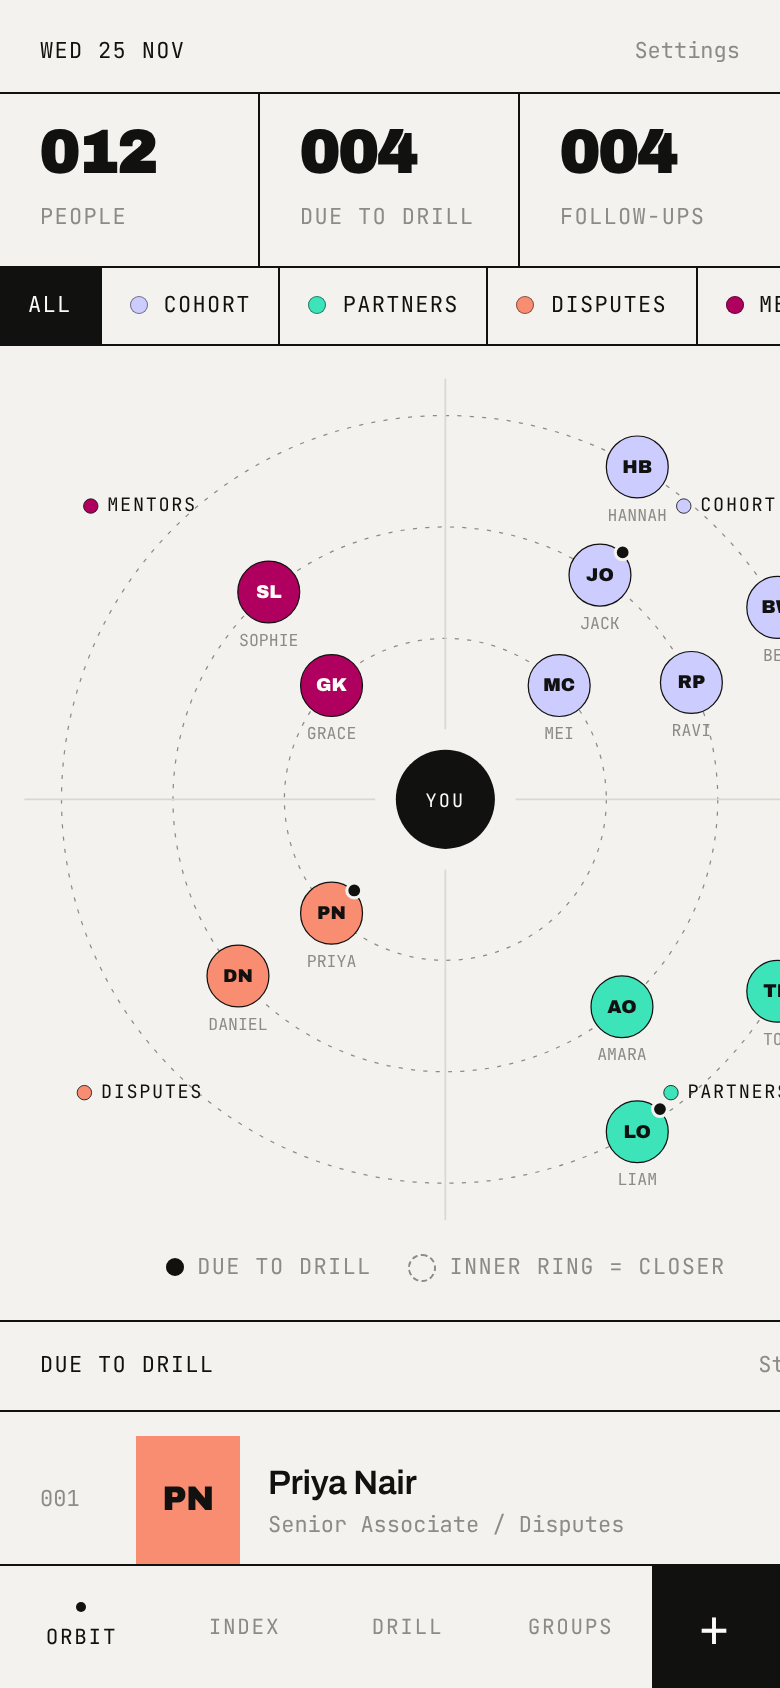
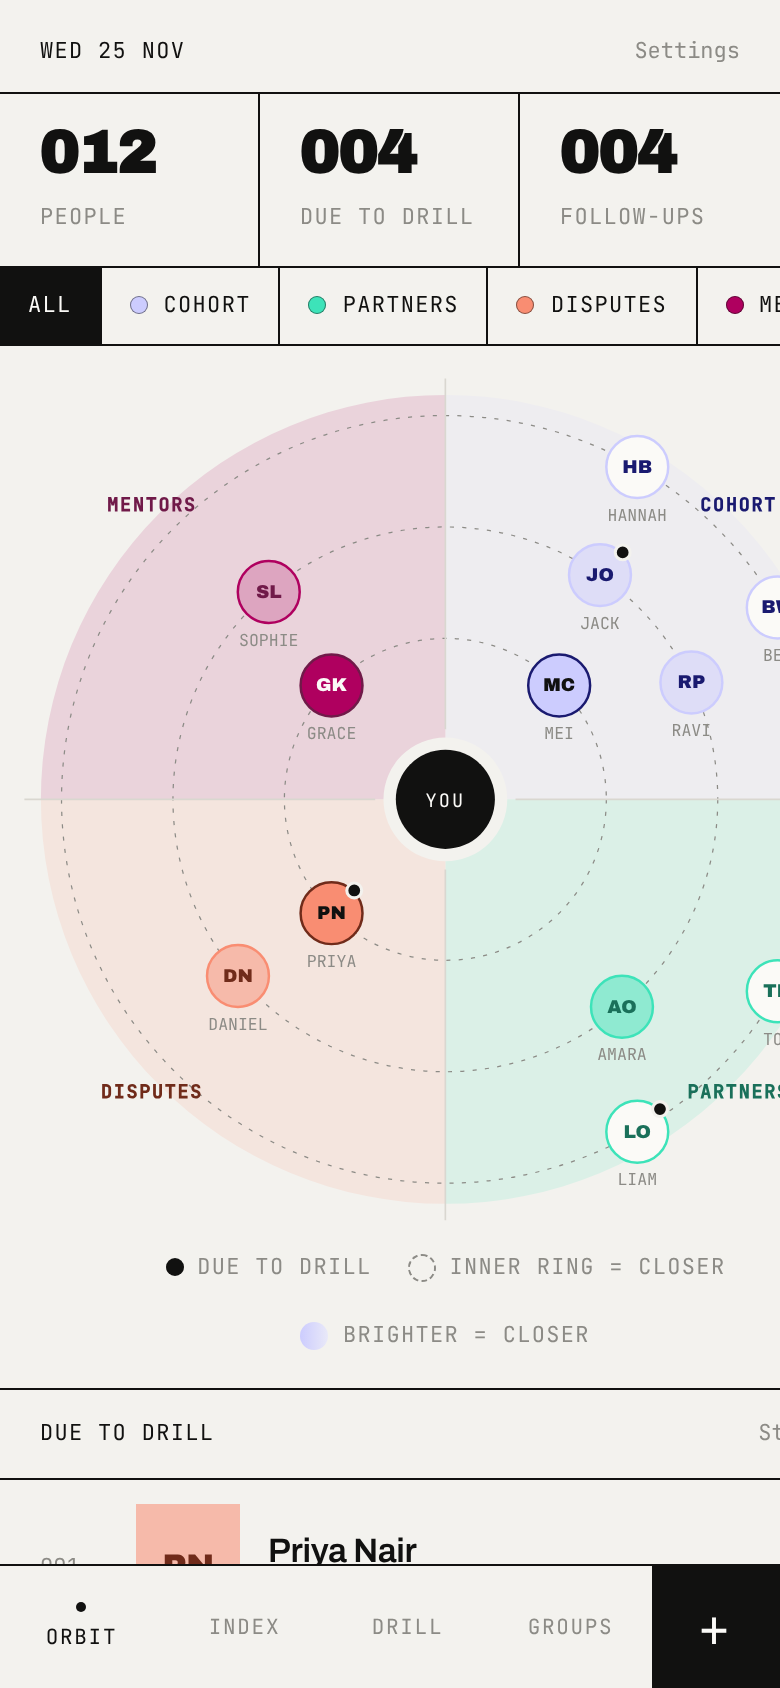
Colour mode: tonal ranges (wash, soft, bright, deep) per brand colour; brightness shows closeness
Claude-Session: https://claude.ai/code/session_01R71v8Qe5o2c96vbEDfs1Lo

diff --git a/mockup/index.html b/mockup/index.html
@@ -166,6 +166,8 @@ main{min-width:0;padding:0 0 96px}
 .pick button span{font-size:10px}
 .pick button.on{background:var(--ink);color:var(--white)}
 #enter:disabled{background:var(--soft);color:var(--grey);cursor:default}
+.ramp{display:grid;grid-template-columns:80px repeat(4,1fr);align-items:center;gap:4px;margin-top:10px}
+.ramp i{height:22px;box-shadow:inset 0 0 0 .5px rgba(17,17,16,.2)}
 /* sheet */
 .scrim{position:fixed;inset:0;background:rgba(17,17,16,.25);display:none;z-index:30;align-items:flex-end;justify-content:center}
 .scrim.on{display:flex}
@@ -236,9 +238,20 @@ const gc = p => G(p.groups[0]).c;
 // pick ink or white text depending on how light the brand colour is
 const lum = h => { const [r,g,b]=[1,3,5].map(i=>parseInt(h.substr(i,2),16)/255); return .2126*r+.7152*g+.0722*b };
 const on = h => lum(h)>.55 ? '#111110' : '#FBFAF7';
-const tint = p => state.colour ? `${gc(p)};color:${on(gc(p))}` : 'var(--faint)';
+const tint = p => state.colour ? `${TP(p).soft};color:${TP(p).deep}` : 'var(--faint)';
 // solid tint: blend a group colour into the paper colour (keeps orbit lines from showing through)
 const mix = (hex,t) => '#'+[1,3,5].map(i=>Math.round(parseInt(hex.substr(i,2),16)*t+[0xF3,0xF2,0xEE][(i-1)/2]*(1-t)).toString(16).padStart(2,'0')).join('');
+// blend toward ink for deep shades
+const mixI = (hex,t) => '#'+[1,3,5].map(i=>Math.round(parseInt(hex.substr(i,2),16)*(1-t)+0x11*t).toString(16).padStart(2,'0')).join('');
+// deep shade that keeps the hue (periwinkle -> indigo, peach -> rust) instead of going muddy grey
+const darkHue = hex => { let [r,g,b]=[1,3,5].map(i=>parseInt(hex.substr(i,2),16)/255); const mx=Math.max(r,g,b), mn=Math.min(r,g,b); let h=0,sat=0; const l=(mx+mn)/2;
+  if(mx!==mn){ const d=mx-mn; sat=l>.5?d/(2-mx-mn):d/(mx+mn); h=mx===r?(g-b)/d+(g<b?6:0):mx===g?(b-r)/d+2:(r-g)/d+4; h/=6 }
+  sat=Math.min(sat,.62); const L=.27, q=L<.5?L*(1+sat):L+sat-L*sat, pp=2*L-q;
+  const f=t=>{t<0&&(t+=1);t>1&&(t-=1);return t<1/6?pp+(q-pp)*6*t:t<.5?q:t<2/3?pp+(q-pp)*(2/3-t)*6:pp};
+  return '#'+[h+1/3,h,h-1/3].map(t=>Math.round(f(t)*255).toString(16).padStart(2,'0')).join('') };
+// Tonal range for each brand colour: wash (faded) -> soft -> base (bright) -> deep (for text)
+const T = h => { const L=lum(h); return { wash:mix(h,.13), soft:mix(h,L>.6?.55:.32), base:h, deep:L<.12?h:darkHue(h) } };
+const TP = p => T(gc(p));
 const deep = p => state.colour ? `${gc(p)};color:${on(gc(p))}` : 'var(--ink)';
 const sw = g => state.colour ? `<i class="sw" style="background:${g.c}"></i>` : '';
 function setHex(id,h){ P(id).hex=h; localStorage.setItem('rolo-palette',JSON.stringify(palette.map(x=>[x.id,x.hex]))); render() }
@@ -268,14 +281,18 @@ function openPerson(id){ state.person=id; go('person') }
 function orbitSVG(){
   const C=210, R={1:78,2:132,3:186}, n=groups.length, step=2*Math.PI/n, start=-Math.PI/2;
   let s = `<svg class="orbit" viewBox="0 0 420 420" font-family="JetBrains Mono, monospace">`;
+  if(state.colour) groups.forEach((g,gi)=>{
+    const a0=start+gi*step, a1=a0+step, r0=30, r1=196, pt=(r,a)=>`${C+r*Math.cos(a)} ${C+r*Math.sin(a)}`;
+    const dim = state.filter!=='all'&&state.filter!==g.id;
+    s+=`<path d="M${pt(r0,a0)} L${pt(r1,a0)} A${r1} ${r1} 0 0 1 ${pt(r1,a1)} L${pt(r0,a1)} A${r0} ${r0} 0 0 0 ${pt(r0,a0)}Z" fill="${T(g.c).wash}" opacity="${dim?.35:1}"/>`;
+  });
   [R[1],R[2],R[3]].forEach(r=>s+=`<circle cx="${C}" cy="${C}" r="${r}" fill="none" stroke="#8C8B86" stroke-width=".6" stroke-dasharray="2 4"/>`);
   groups.forEach((g,gi)=>{
     const a=start+gi*step;
     s+=`<line x1="${C+34*Math.cos(a)}" y1="${C+34*Math.sin(a)}" x2="${C+204*Math.cos(a)}" y2="${C+204*Math.sin(a)}" stroke="#D9D7D0" stroke-width=".8"/>`;
     const m=a+step/2, lx=C+201*Math.cos(m), ly=C+201*Math.sin(m);
     const dim = state.filter!=='all'&&state.filter!==g.id;
-    if(state.colour) s+=`<circle cx="${lx-g.short.length*3.1-8}" cy="${ly}" r="3.5" fill="${g.c}" stroke="#111110" stroke-width=".4" opacity="${dim?.25:1}"/>`;
-    s+=`<text x="${lx}" y="${ly}" font-size="9" letter-spacing=".8" text-anchor="middle" dominant-baseline="middle" fill="#111110" opacity="${dim?.25:1}" style="cursor:pointer" onclick="state.filter=state.filter==='${g.id}'?'all':'${g.id}';render()">${g.short.toUpperCase()}</text>`;
+    s+=`<text x="${lx}" y="${ly}" font-size="9" letter-spacing=".8" text-anchor="middle" dominant-baseline="middle" fill="${state.colour?T(g.c).deep:'#111110'}" font-weight="${state.colour?600:400}" opacity="${dim?.25:1}" style="cursor:pointer" onclick="state.filter=state.filter==='${g.id}'?'all':'${g.id}';render()">${g.short.toUpperCase()}</text>`;
   });
   s+=`<circle cx="${C}" cy="${C}" r="24" fill="#111110"/><text x="${C}" y="${C+1}" font-size="9" letter-spacing="1" text-anchor="middle" dominant-baseline="middle" fill="#FBFAF7">YOU</text>`;
   groups.forEach((g,gi)=>{
@@ -285,9 +302,10 @@ function orbitSVG(){
         const a=start+gi*step+step*(k+1)/(ps.length+1)+(ring===2?.08:0);
         const x=C+R[ring]*Math.cos(a), y=C+R[ring]*Math.sin(a);
         const dim = state.filter!=='all'&&!p.groups.includes(state.filter);
+        const t=TP(p), fill=state.colour?[0,t.base,t.soft,'#FBFAF7'][ring]:'#FBFAF7', txt=state.colour?(ring===1?on(t.base):t.deep):'#111110', stroke=state.colour?(ring===1?t.deep:t.base):'#111110';
         s+=`<g class="node ${dim?'dim':''}" onclick="openPerson(${p.id})">
-          <circle class="face" cx="${x}" cy="${y}" r="15" fill="${state.colour?gc(p):'#FBFAF7'}" stroke="#111110" stroke-width="${state.colour?.6:1}"/>
-          <text class="ini" x="${x}" y="${y+.5}" font-size="9" font-family="Archivo Black, sans-serif" text-anchor="middle" dominant-baseline="middle" fill="${state.colour?on(gc(p)):'#111110'}">${ini(p)}</text>
+          <circle class="face" cx="${x}" cy="${y}" r="15" fill="${fill}" stroke="${stroke}" stroke-width="${state.colour?1.2:1}"/>
+          <text class="ini" x="${x}" y="${y+.5}" font-size="9" font-family="Archivo Black, sans-serif" text-anchor="middle" dominant-baseline="middle" fill="${txt}">${ini(p)}</text>
           ${p.due?`<circle cx="${x+11}" cy="${y-11}" r="3.6" fill="#111110" stroke="#F3F2EE" stroke-width="1.5"/>`:''}
           <text x="${x}" y="${y+26}" font-size="8" text-anchor="middle" fill="#8C8B86">${p.first.toUpperCase()}</text></g>`;
       });
@@ -312,13 +330,13 @@ orbit(){
     <div>
       <div class="filters" style="border-top:0"><button class="${state.filter==='all'?'on':''}" onclick="state.filter='all';render()">All</button>${groups.map(g=>`<button class="${state.filter===g.id?'on':''}" onclick="state.filter='${g.id}';render()">${sw(g)}${g.short}</button>`).join('')}</div>
       ${orbitSVG()}
-      <div class="legend mono grey"><span><i class="lg-due"></i>Due to drill</span><span><i class="lg-ring"></i>Inner ring = closer</span></div>
+      <div class="legend mono grey"><span><i class="lg-due"></i>Due to drill</span><span><i class="lg-ring"></i>Inner ring = closer</span>${state.colour?'<span><i class="lg-ring" style="border:0;background:linear-gradient(90deg,#CCCCFE,#E9E9F8)"></i>Brighter = closer</span>':''}</div>
     </div>
     <div>
       <div class="sect mono" style="border-top:1px solid var(--ink)"><span>Due to drill</span><button class="grey" onclick="go('drill')">Start →</button></div>
       ${due.map((p,i)=>row(p,i+1)).join('')}
       <div class="sect mono" style="border-top:1px solid var(--ink);margin-top:-1px"><span>Follow-ups</span><span class="grey">${pad(fol.length)}</span></div>
-      ${fol.map((p,i)=>row(p,i+1,`<span class="tagline">${p.follow}</span>`)).join('')}
+      ${fol.map((p,i)=>row(p,i+1,`<span class="tagline" ${state.colour?`style="background:${TP(p).wash};border-color:${TP(p).deep};color:${TP(p).deep}"`:''}>${p.follow}</span>`)).join('')}
     </div>
   </div>`;
 },
@@ -338,7 +356,7 @@ person(){
   <div class="bar mono"><button onclick="go('index')">← Index</button><span class="grey">Entry ${pad(idx)}</span></div>
   <div class="profile" style="border-top:0">
     <div>
-      <div class="portrait" style="background:${tint(p)}">${ini(p)}</div>
+      <div class="portrait" style="background:${state.colour?`${TP(p).soft};color:${TP(p).deep}`:'var(--faint)'}">${ini(p)}</div>
       <div class="pname">${p.first}<br>${p.last}</div>
       <div class="facts">
         <div><span>Role</span><span>${p.role}</span></div>
@@ -349,7 +367,7 @@ person(){
       </div>
     </div>
     <div>
-      <div class="hook"><span class="mono grey">Memory hook</span><p>${p.hook}</p></div>
+      <div class="hook" ${state.colour?`style="background:${TP(p).wash}"`:''}><span class="mono grey">Memory hook</span><p>${p.hook}</p></div>
       ${p.follow?`<div class="hook"><span class="mono grey">Follow-up</span><p>${p.follow}</p></div>`:''}
       <div class="sect mono"><span>Notes</span><button class="grey">+ Add</button></div>
       ${p.notes.length?p.notes.map(([d,t])=>`<div class="note"><span class="mono grey">${d}</span><span>${t}</span></div>`).join(''):'<div class="note"><span class="mono grey">—</span><span class="grey">Nothing yet. Add something they mentioned.</span></div>'}
@@ -368,7 +386,7 @@ drill(){
     <div class="flip ${state.fc.flipped?'on':''}" onclick="state.fc.flipped=!state.fc.flipped;this.classList.toggle('on')">
       <div class="flip-in">
         <div class="fa" style="background:${deep(p)}"><div class="foot mono" style="border-top:0;border-bottom:1px solid #444"><span>${pad(people.indexOf(p)+1)}: Who?</span><span>${G(p.groups[0]).short}</span></div><div class="big">${ini(p)}</div><div class="foot mono" style="border-color:#444"><span>Tap to reveal</span><span>↻</span></div></div>
-        <div class="fb"><div class="pname">${p.first}<br>${p.last}</div>
+        <div class="fb" ${state.colour?`style="background:${TP(p).wash}"`:''}><div class="pname">${p.first}<br>${p.last}</div>
           <div class="facts"><div><span>Role</span><span>${p.role}</span></div><div><span>Team</span><span>${p.team}</span></div><div><span>Met</span><span>${p.met}</span></div></div>
           <div class="hk"><span class="mono grey" style="display:block;margin-bottom:4px">Memory hook</span>${p.hook}</div></div>
       </div>
@@ -380,7 +398,7 @@ groups(){
   return `<div class="bar mono"><span>Rolo / Groups</span><span class="grey">${pad(groups.length)} groups</span></div>
   <div class="title">Groups</div>
   <div style="border-top:1px solid var(--ink)">
-  ${groups.map((g,i)=>`<button class="gl" onclick="state.filter='${g.id}';go('index')"><span class="mono grey">${pad(i+1)}</span><b>${sw(g)}${g.name}</b><span class="ct">${pad(inG(g.id).length)}</span></button>`).join('')}
+  ${groups.map((g,i)=>`<button class="gl" style="${state.colour?`box-shadow:inset 6px 0 0 ${g.c};background:linear-gradient(90deg,${T(g.c).wash},transparent 70%)`:''}" onclick="state.filter='${g.id}';go('index')"><span class="mono grey">${pad(i+1)}</span><b>${sw(g)}${g.name}</b><span class="ct">${pad(inG(g.id).length)}</span></button>`).join('')}
   <button class="gl" onclick="openGroup()"><span class="mono grey">+</span><b class="grey">New group</b><span></span></button></div>`;
 },
 };
@@ -390,6 +408,7 @@ views.settings = function(){
   <div class="title">Settings</div>
   <div class="sect mono" style="border-top:1px solid var(--ink)"><span>Appearance</span></div>
   <div class="set"><div><b>Colour mode</b><small>Give each group its own colour across the orbit, index and drill. Off = black and white.</small></div>${tog(state.colour,`setColour(${!state.colour})`)}</div>
+  ${state.colour?`<div class="set" style="display:block"><b>Tones</b><small>Each colour comes in a faded, soft, bright and deep version. Brighter means closer on your orbit.</small>${groups.map(g=>{const t=T(g.c);return `<div class="ramp"><span class="mono grey">${g.short}</span>${[t.wash,t.soft,t.base,t.deep].map(c=>`<i style="background:${c}"></i>`).join('')}</div>`}).join('')}</div>`:''}
   <div class="set"><div><b>Preview</b><small>${groups.map(g=>`<span class="tagline" style="margin:6px 6px 0 0;display:inline-flex;align-items:center;gap:6px">${state.colour?`<i class="sw" style="background:${g.c};margin:0"></i>`:''}${g.short}</span>`).join('')}</small></div></div>
   ${state.colour?`<div class="sect mono" style="border-top:1px solid var(--ink);margin-top:-1px"><span>Group colours</span><span class="grey">Tap a swatch</span></div>
   ${groups.map(g=>`<div class="set"><div><b>${g.name}</b><small>${P(g.pc).firm} · ${P(g.pc).name}</small></div><div class="swatches">${palette.map(x=>`<button class="swb ${g.pc===x.id?'on':''}" style="background:${x.hex}" title="${x.firm} ${x.name}" onclick="setGroupColour('${g.id}','${x.id}')"></button>`).join('')}</div></div>`).join('')}
